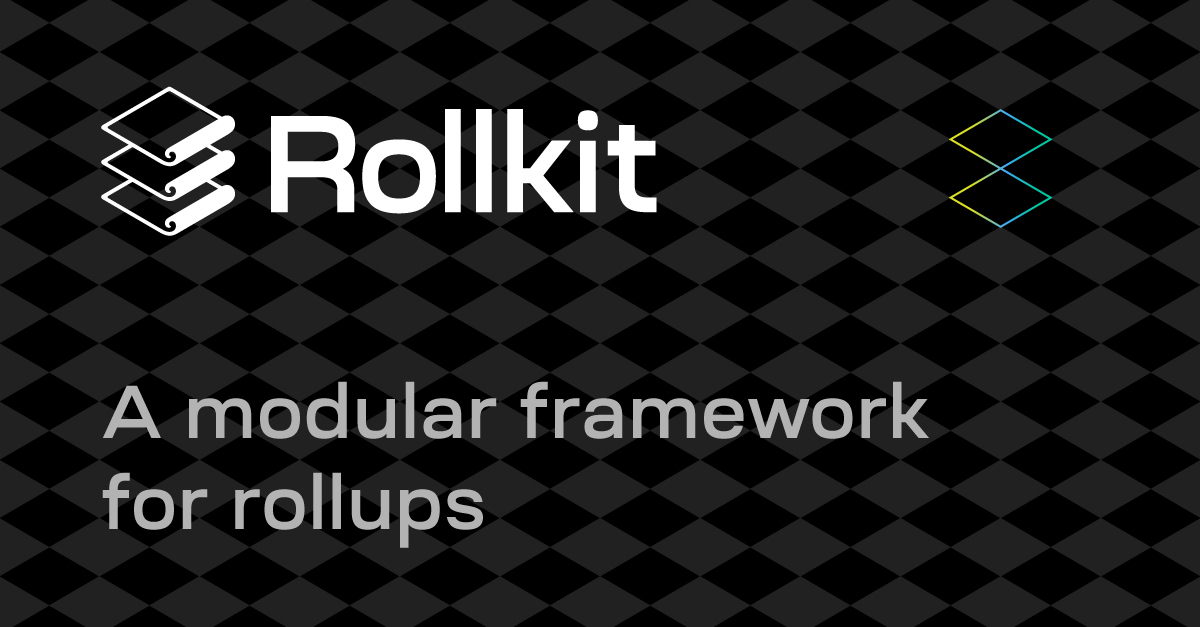
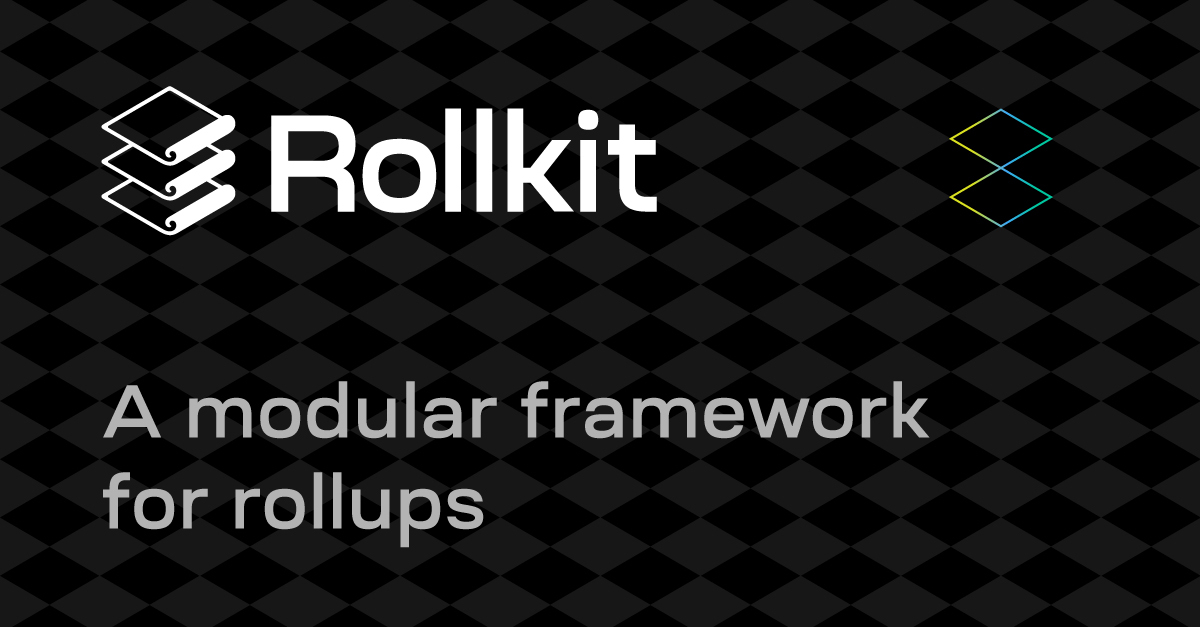
swap OG image, revert menu

diff --git a/docusaurus.config.js b/docusaurus.config.js
@@ -64,45 +64,45 @@ const config = {
           srcDark: 'img/rollkit-wht.svg'
         },
         items: [
-          // {
-          //   type: 'doc',
-          //   docId: 'intro',
-          //   position: 'left',
-          //   label: 'Introduction',
-          // },
           {
             type: 'doc',
             docId: 'intro',
             position: 'left',
-            label: 'Docs',
-          },
-          {
-            href: '/docs/category/tutorials',
-            label: 'Tutorials',
-            position: 'left',
+            label: 'Intro',
           },
           // {
-          //   type: 'dropdown',
-          //   label: 'Docs',
+          //   type: 'doc',
+          //   docId: 'intro',
           //   position: 'left',
-          //   items: [
-          //     {
-          //       type: 'doc',
-          //       docId: 'rollkit-stack',
-          //       label: 'Rollkit stack',
-          //     },
-          //     {
-          //       type: 'doc',
-          //       docId: 'transaction-flow',
-          //       label: 'Transaction flow',
-          //     },
-          //     {
-          //       type: 'doc',
-          //       docId: 'tutorials/building-and-deploying-a-rollup',
-          //       label: 'Tutorials',
-          //     },
-          //   ],
+          //   label: 'Docs',
           // },
+          // {
+          //   href: '/docs/category/tutorials',
+          //   label: 'Tutorials',
+          //   position: 'left',
+          // },
+          {
+            type: 'dropdown',
+            label: 'Docs',
+            position: 'left',
+            items: [
+              {
+                type: 'doc',
+                docId: 'rollkit-stack',
+                label: 'Rollkit stack',
+              },
+              {
+                type: 'doc',
+                docId: 'transaction-flow',
+                label: 'Transaction flow',
+              },
+              {
+                type: 'doc',
+                docId: 'tutorials/building-and-deploying-a-rollup',
+                label: 'Tutorials',
+              },
+            ],
+          },
           {
             to: '/blog',
             position: 'right',
